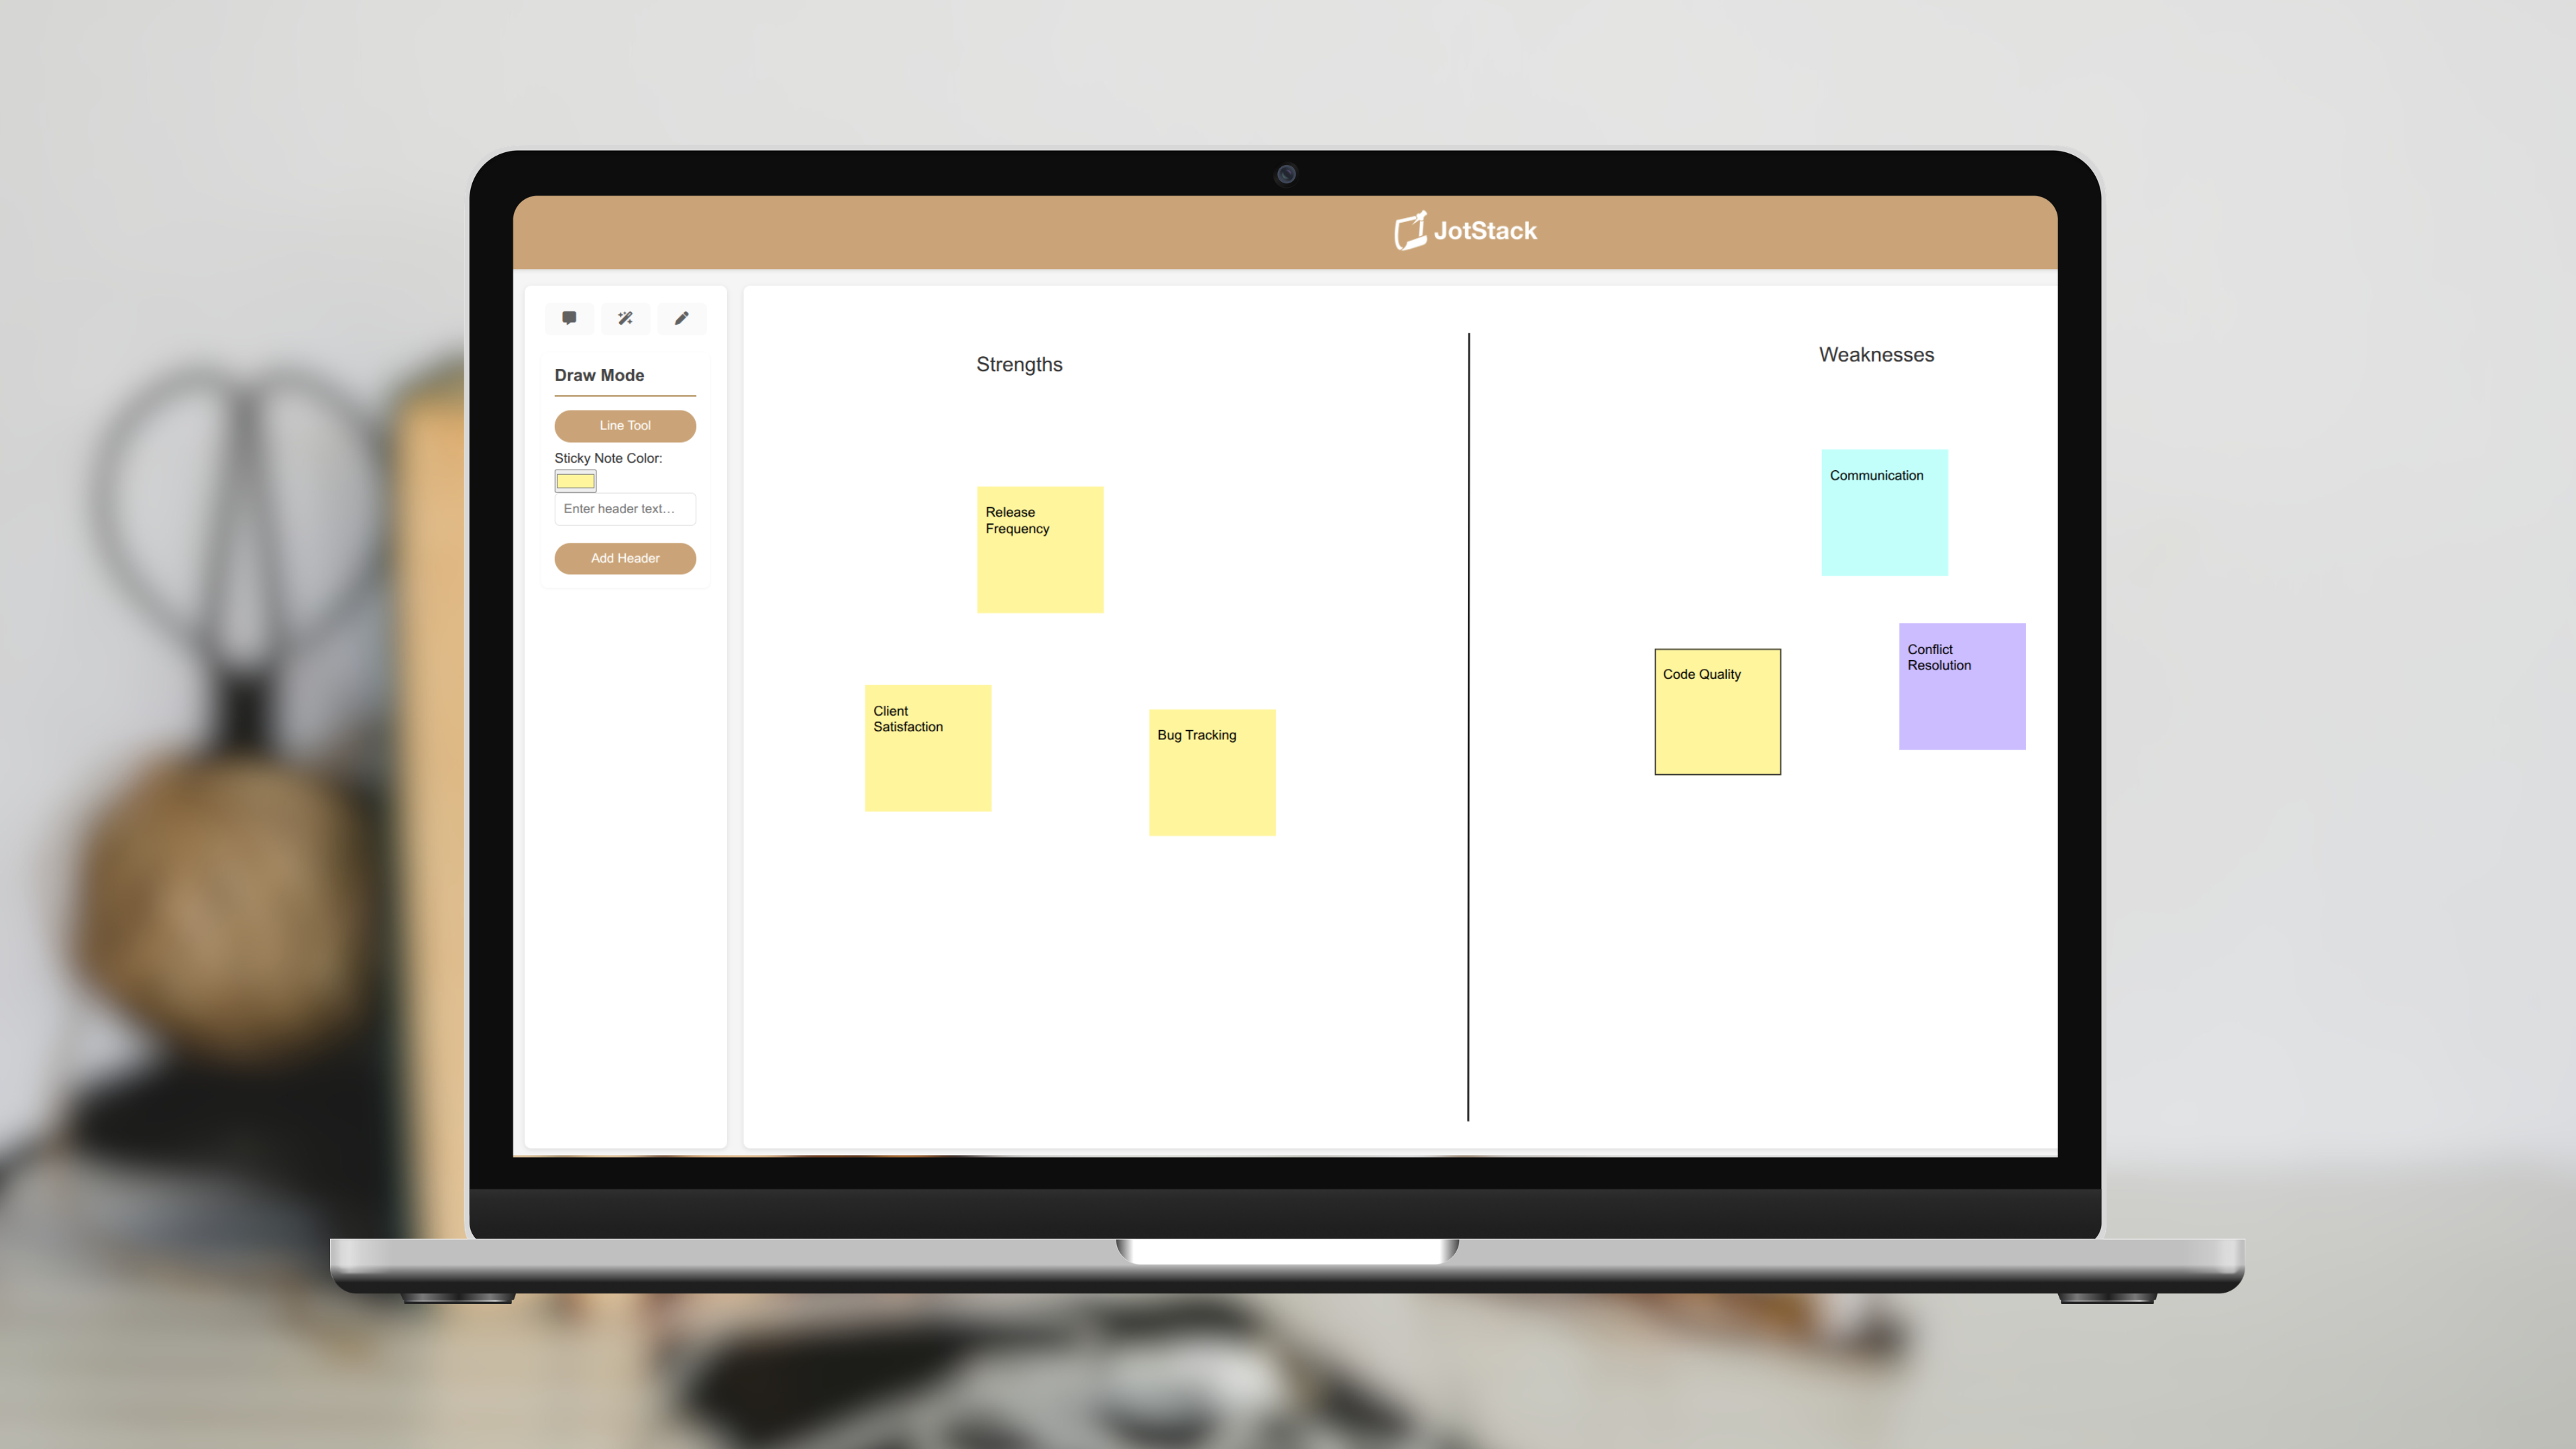
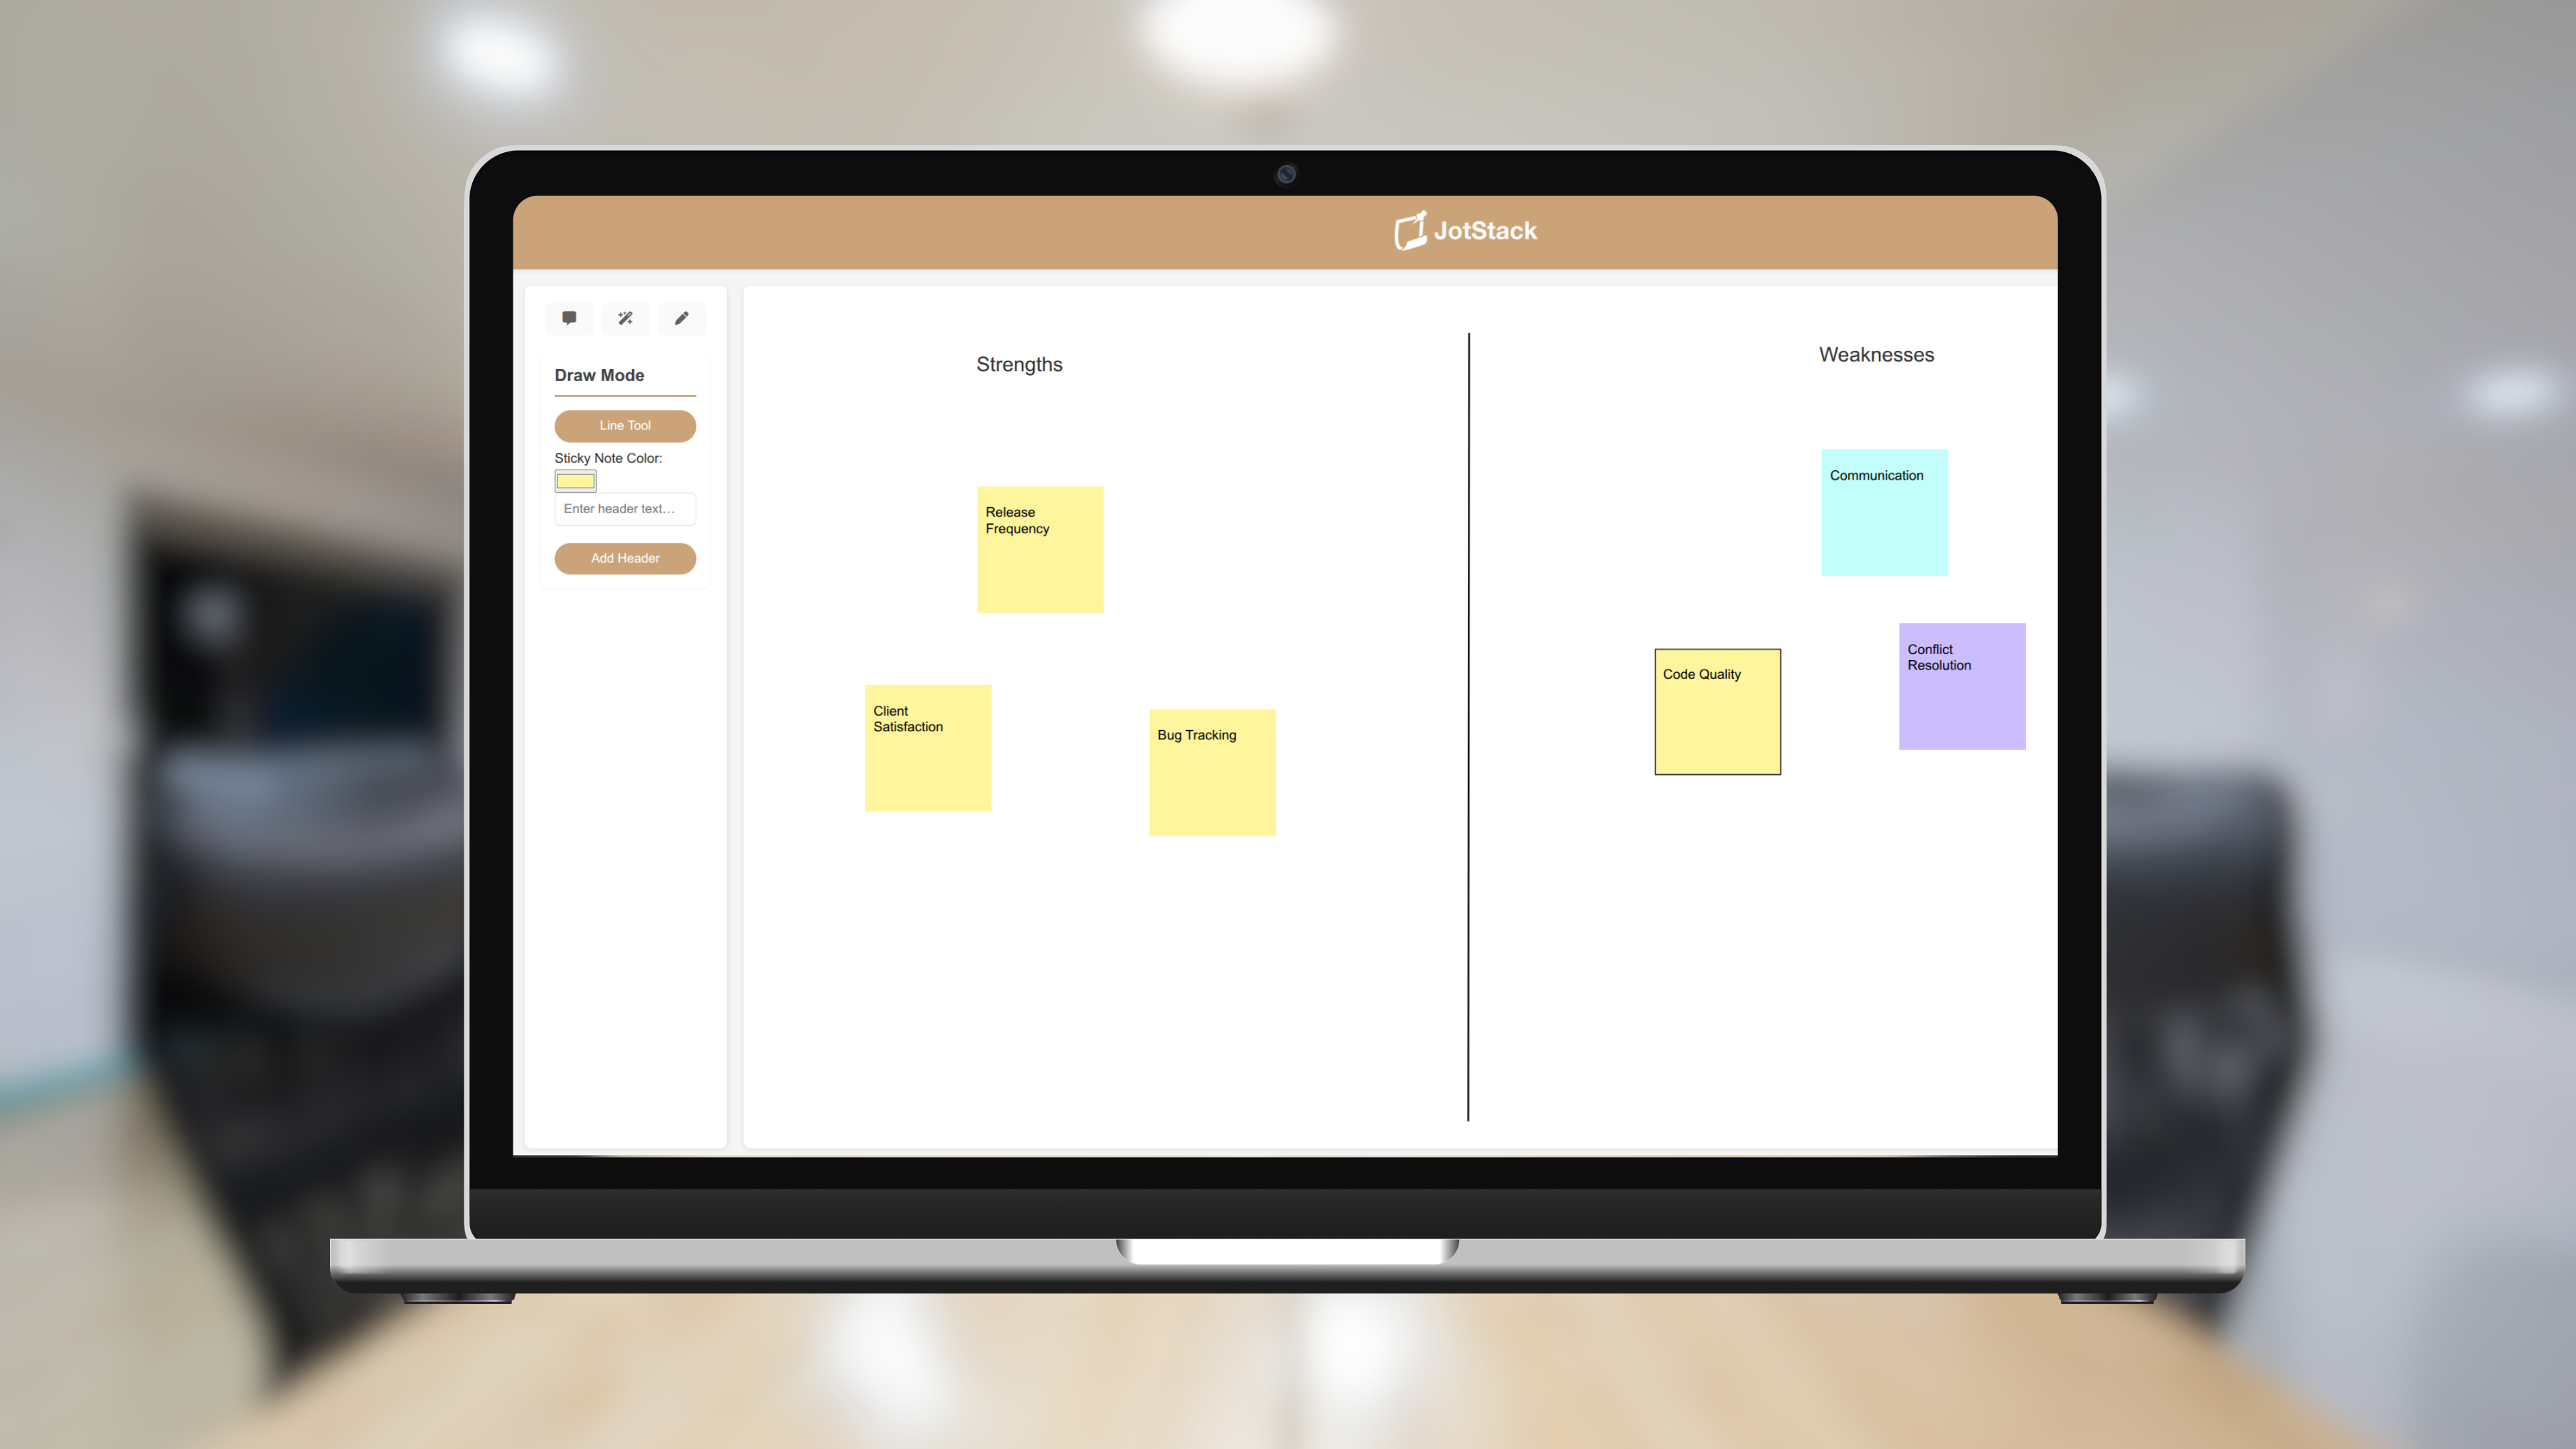
Add MAGI to projects

diff --git a/src/data/projects.ts b/src/data/projects.ts
@@ -89,6 +89,22 @@ export const projects: Project[] = [
     ],
   },
   {
+    slug: 'magi',
+    title: 'MAGI',
+    description:
+      'A multi-agent AWS system that orchestrates an LLM swarm for consensus-driven prompt resolution, managed via a real-time React dashboard. Inspired by Neon Genesis Evangelion.',
+    tags: ['React', 'TypeScript', 'Tailwind', 'AWS Bedrock', 'AWS Lambda', 'DynamoDB'],
+    images: [
+      new URL('../assets/imgs/MAGI/2.png', import.meta.url).href,
+      new URL('../assets/imgs/MAGI/1.png', import.meta.url).href,
+    ],
+    submission: 'AI@UCI AWS CloudHacks 2026 Submission',
+    links: [
+      { label: 'Github Repo', href: 'https://github.com/kennethyandell/cloudhacks2026' },
+      { label: 'Devpost', href: 'https://devpost.com/software/magi-lxb0ne' }
+    ],
+  },
+  {
     slug: 'jit',
     title: 'J.I.T (Just In Time)',
     description:

diff --git a/src/routes/projects.$slug.tsx b/src/routes/projects.$slug.tsx
@@ -43,6 +43,7 @@ const TAG_ICONS: Record<string, React.ReactNode> = {
   Python: <DiPython className="text-2xl" />,
   OpenCV: <SiOpencv className="text-2xl" />,
   Ultralytics: <SiUltralytics className="text-2xl" />,
+  DynamoDB: <FaAws className="text-2xl" />,
 }
 
 const LINK_ICONS: Record<string, React.ReactNode> = {